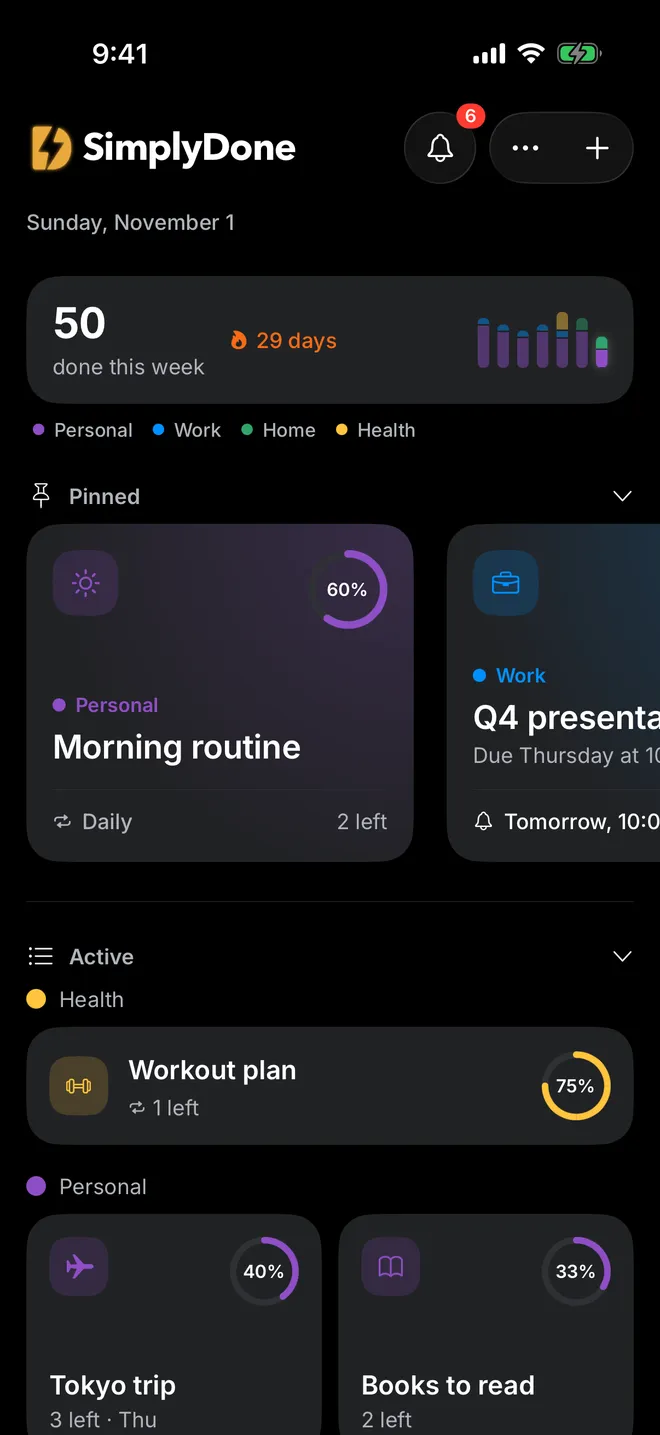
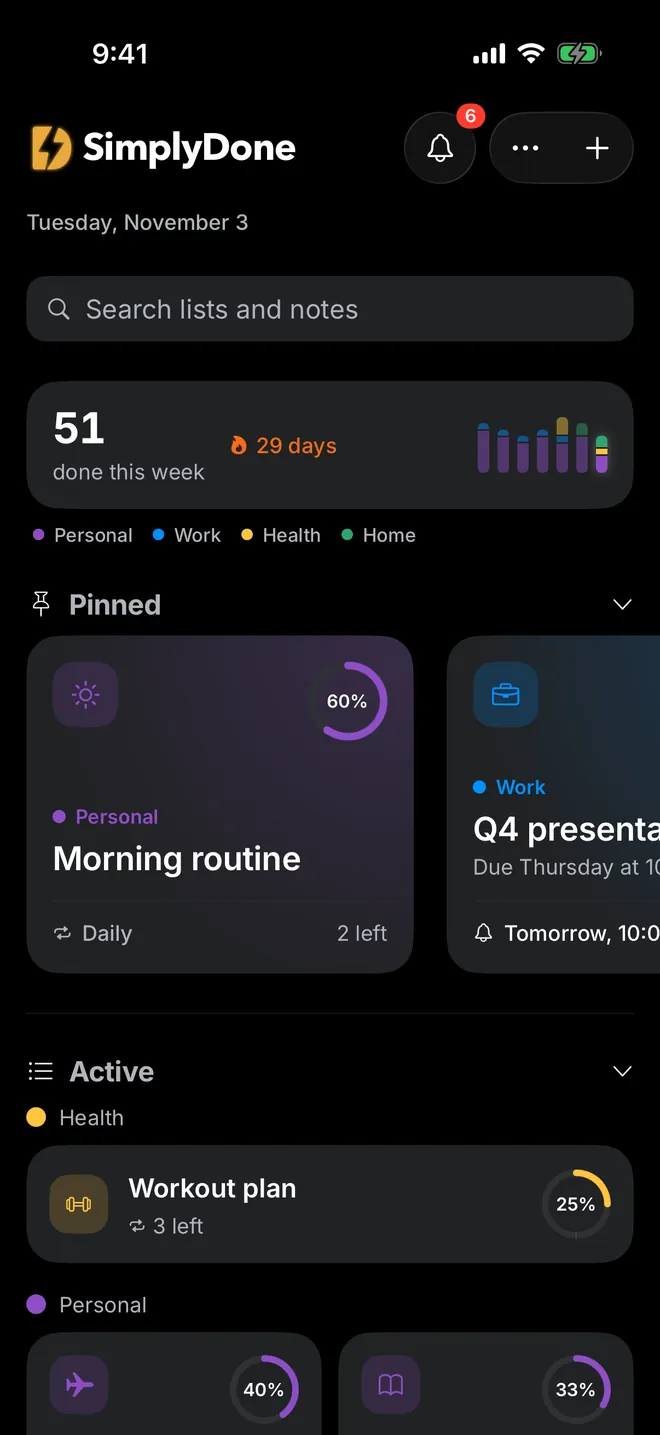
chore: Site matches 2.1.0, with notes, steps and search
- Gallery shows the 9 App Store screens from 2.1, all dark: lists, a note, a list, steps, History, search, Reminders, Edit List and Welcome
- New notes, steps and search screenshots; main, list and welcome screenshots retaken; light progress screenshot removed
- Tagline and descriptions add notes
- Feature cards add Notes and Steps inside tasks, swap Redesigned in 2.0 out, and Groups, pins and filters becomes Groups, pins and search
- Free card adds notes and steps
- What's New adds 2.1.0 (coming soon) and the Nov 3 steps update to 2.0.0
- Privacy, Terms and Support list notes where they name your data; Privacy also names steps; Privacy and Terms effective Nov 3, 2026
- Sitemap dates updated for every page

diff --git a/index.html b/index.html
@@ -4,13 +4,13 @@
     <meta charset="utf-8" />
     <meta name="viewport" content="width=device-width, initial-scale=1" />
     <title>SimplyDone - ToDo &amp; Tasks · Simple To-Do List App for iPhone</title>
-    <meta name="description" content="A simple to-do list app for iPhone and iPad. Lists, tasks, reminders and routines, kept simple. Free, with no account. Your lists stay on your iPhone." />
+    <meta name="description" content="A simple to-do list app for iPhone and iPad. Lists, tasks, notes, reminders and routines, kept simple. Free, with no account. Your lists stay on your iPhone." />
     <link rel="canonical" href="https://simplydevlab.github.io/simplydone-site/" />
     <meta name="apple-itunes-app" content="app-id=6815755294" />
     <meta property="og:type" content="website" />
     <meta property="og:site_name" content="SimplyDone" />
     <meta property="og:title" content="SimplyDone - ToDo &amp; Tasks" />
-    <meta property="og:description" content="Lists, tasks, reminders and routines, kept simple. Free, with no account. Your lists stay on your iPhone." />
+    <meta property="og:description" content="Lists, tasks, notes, reminders and routines, kept simple. Free, with no account. Your lists stay on your iPhone." />
     <meta property="og:url" content="https://simplydevlab.github.io/simplydone-site/" />
     <meta property="og:image" content="https://simplydevlab.github.io/simplydone-site/todo/images/icon.png" />
     <meta property="og:image:alt" content="SimplyDone app icon" />
@@ -23,7 +23,7 @@
         "@context": "https://schema.org",
         "@type": "MobileApplication",
         "name": "SimplyDone - ToDo & Tasks",
-        "description": "Lists, tasks, reminders and routines, kept simple. Free, with no account. Your lists stay on your iPhone.",
+        "description": "Lists, tasks, notes, reminders and routines, kept simple. Free, with no account. Your lists stay on your iPhone.",
         "url": "https://simplydevlab.github.io/simplydone-site/",
         "image": "https://simplydevlab.github.io/simplydone-site/todo/images/icon.png",
         "operatingSystem": "iOS",
@@ -44,7 +44,7 @@
         <img class="app-icon" src="todo/images/icon.png" width="96" height="96" alt="SimplyDone app icon" />
         <div>
           <h1>SimplyDone - ToDo &amp; Tasks</h1>
-          <p class="tagline">Lists, tasks, reminders and routines, kept simple.</p>
+          <p class="tagline">Lists, tasks, notes, reminders and routines, kept simple.</p>
           <a class="store-badge" href="https://apps.apple.com/app/id6815755294">
             <img src="todo/images/app-store-black.svg" width="150" height="50" alt="Download on the App Store" />
           </a>
@@ -54,20 +54,28 @@
 
       <section class="gallery" aria-label="Screenshots">
         <figure>
-          <figcaption><strong>Your lists, at a glance.</strong> Tiles in your groups' colors, pinned up top.</figcaption>
-          <div class="phone"><img src="todo/images/main.webp" width="660" height="1435" alt="The main screen in dark mode: this week's done count and streak, pinned lists as tiles, and active lists in color groups" /></div>
+          <figcaption><strong>Your lists, at a glance.</strong> Your week, your streak, and what's pinned.</figcaption>
+          <div class="phone"><img src="todo/images/main.webp" width="660" height="1435" alt="The main screen: a search field, this week's done count and streak, pinned lists as tiles, and active lists in color groups" /></div>
+        </figure>
+        <figure>
+          <figcaption><strong>Jot it down.</strong> Plain notes, linked to the lists they're about.</figcaption>
+          <div class="phone"><img src="todo/images/notes.webp" width="660" height="1435" alt="A note planning a Tokyo trip, linked to a Tokyo trip list and a Books to read list" loading="lazy" /></div>
         </figure>
         <figure>
           <figcaption><strong>Just check it off.</strong> What's left and what's next, right at the top.</figcaption>
           <div class="phone"><img src="todo/images/check.webp" width="660" height="1435" alt="A work list with 3 of 6 tasks left, its next reminder, and done tasks folded below" loading="lazy" /></div>
         </figure>
         <figure>
+          <figcaption><strong>Break it into small steps.</strong> Steps inside any task, with notes and photos.</figcaption>
+          <div class="phone"><img src="todo/images/steps.webp" width="660" height="1435" alt="A workout list whose tasks open into steps, some ticked, one with a description" loading="lazy" /></div>
+        </figure>
+        <figure>
           <figcaption><strong>Make it a routine.</strong> Lists that repeat, with every day kept in History.</figcaption>
           <div class="phone"><img src="todo/images/routine.webp" width="660" height="1435" alt="History of a daily morning list: a calendar of the days kept, the average done, and the best run" loading="lazy" /></div>
         </figure>
         <figure>
-          <figcaption><strong>See your progress.</strong> Your week by group, and your streak.</figcaption>
-          <div class="phone"><img src="todo/images/progress.webp" width="660" height="1435" alt="The main screen in light mode, with the week's tasks done by group and a 29-day streak" loading="lazy" /></div>
+          <figcaption><strong>Find anything, fast.</strong> One search for your lists and your notes.</figcaption>
+          <div class="phone"><img src="todo/images/search.webp" width="660" height="1435" alt="Searching the main screen for week: two matching lists and two matching notes" loading="lazy" /></div>
         </figure>
         <figure>
           <figcaption><strong>Never miss a thing.</strong> What's up next, and every reminder by day.</figcaption>
@@ -78,8 +86,8 @@
           <div class="phone"><img src="todo/images/icons.webp" width="660" height="1435" alt="Editing a trip list: its icon, group and repeat" loading="lazy" /></div>
         </figure>
         <figure>
-          <figcaption><strong>No sign-up. Just start.</strong> Your lists never leave your iPhone.</figcaption>
-          <div class="phone"><img src="todo/images/start.webp" width="660" height="1435" alt="The welcome screen, with a New list button and ready-made lists to start from" loading="lazy" /></div>
+          <figcaption><strong>No sign-up. Just start.</strong> Your lists and notes never leave your iPhone.</figcaption>
+          <div class="phone"><img src="todo/images/start.webp" width="660" height="1435" alt="The welcome screen, with a New list button, ready-made lists to start from, and Write a note" loading="lazy" /></div>
         </figure>
       </section>
 
@@ -87,11 +95,15 @@
       <div class="features">
         <div class="card">
           <h3>Your lists stay yours</h3>
-          <p>Your lists, tasks and photos are saved only on your device. No account to create, and nothing you write is shared with advertisers.</p>
+          <p>Your lists, tasks, notes and photos are saved only on your device. No account to create, and nothing you write is shared with advertisers.</p>
         </div>
         <div class="card">
-          <h3>Redesigned in 2.0</h3>
-          <p>Your lists as tiles in their group's color, each with its own icon from a set of 40. What's left and what's next, right at the top of every list.</p>
+          <h3>Notes, new in 2.1</h3>
+          <p>Write a note, just a title and plain text, and link it to as many lists as you like. Each link shows what's left, and each list shows the notes that link it.</p>
+        </div>
+        <div class="card">
+          <h3>Steps inside tasks</h3>
+          <p>Break a task into a short checklist. Each step has its own tick, and a description or photos if you like.</p>
         </div>
         <div class="card">
           <h3>Repeating lists</h3>
@@ -114,8 +126,8 @@
           <p>Add a description or a photo to any task, so the details are right where you need them.</p>
         </div>
         <div class="card">
-          <h3>Groups, pins and filters</h3>
-          <p>Color-code lists into groups, pin the ones you use most, and filter to see just what matters.</p>
+          <h3>Groups, pins and search</h3>
+          <p>Lists as tiles in their group's color, each with its own icon from a set of 40. Pin the ones you use most, and search your lists and notes from the main screen.</p>
         </div>
         <div class="card">
           <h3>Light and dark</h3>
@@ -131,7 +143,7 @@
       <div class="features">
         <div class="card">
           <p class="label">Free</p>
-          <p>Everything: unlimited lists and tasks, repeating lists, progress and streak, reminders, photos, groups and sharing. A small banner ad keeps it free.</p>
+          <p>Everything: unlimited lists, tasks and notes, steps, repeating lists, progress and streak, reminders, photos, groups and sharing. A small banner ad keeps it free.</p>
         </div>
         <div class="card">
           <p class="label">SimplyDone Pro</p>

diff --git a/todo/privacy/index.html b/todo/privacy/index.html
@@ -20,14 +20,14 @@
   <body>
     <main>
       <h1>Privacy Policy</h1>
-      <p class="subtitle">SimplyDone - ToDo &amp; Tasks · Effective October 25, 2026</p>
+      <p class="subtitle">SimplyDone - ToDo &amp; Tasks · Effective November 3, 2026</p>
 
       <div class="card">
-        <p><strong>In short:</strong> Your lists, tasks, reminders and photos stay on your device, unless you choose to share a list. There's no account and no analytics of the app's own. Since version 1.3.0, SimplyDone is free and shows a small banner ad from Google AdMob. Google collects some device and usage data to show and measure those ads, as described below, but never your lists, tasks or photos. SimplyDone Pro removes the ads.</p>
+        <p><strong>In short:</strong> Your lists, tasks, notes, reminders and photos stay on your device, unless you choose to share a list. There's no account and no analytics of the app's own. Since version 1.3.0, SimplyDone is free and shows a small banner ad from Google AdMob. Google collects some device and usage data to show and measure those ads, as described below, but never your lists, tasks or photos. SimplyDone Pro removes the ads.</p>
       </div>
 
       <h2>What stays on your device</h2>
-      <p>Everything you create in SimplyDone is saved only on your device: lists, tasks and their descriptions, groups, reminders, photos you attach, the history of repeating lists, and your settings. None of it is sent to the developer, to Google or to any advertiser, and the developer has no way to see it. Nothing goes to anyone else unless you share a list yourself.</p>
+      <p>Everything you create in SimplyDone is saved only on your device: lists, tasks and their steps and descriptions, notes, groups, reminders, photos you attach, the history of repeating lists, and your settings. None of it is sent to the developer, to Google or to any advertiser, and the developer has no way to see it. Nothing goes to anyone else unless you share a list yourself.</p>
 
       <h2>Sharing a list</h2>
       <p>When you share a list, SimplyDone makes a file containing the list's name and description, and each task's name, description and whether it's done. Its reminders, photos, group and history are left out. The file goes only where you send it from the iOS share sheet: with AirDrop it goes straight to the other device, and with another app, such as Messages or Mail, it's handled by that app under its own privacy terms. The developer never receives it. A list someone shares with you is added only if you choose to add it.</p>
@@ -53,7 +53,7 @@
       <ul>
         <li>No account or sign-in</li>
         <li>No analytics of the app's own</li>
-        <li>Your lists, tasks and photos are never shared with Google or advertisers</li>
+        <li>Your lists, tasks, notes and photos are never shared with Google or advertisers</li>
         <li>No selling of your data</li>
       </ul>
 
@@ -67,7 +67,7 @@
       <p>SimplyDone Pro removes the ads. It's bought through Apple's App Store. Apple handles the payment, and the developer never receives your payment details. The app checks with the App Store whether you own Pro. Apple's handling of purchases is covered by <a href="https://www.apple.com/legal/privacy/">Apple's Privacy Policy</a>.</p>
 
       <h2>App updates</h2>
-      <p>SimplyDone may download small updates to the app from Expo, the service it's built with. These requests contain only technical details needed to deliver the right update, such as the app version and platform. They contain none of your lists, tasks or photos.</p>
+      <p>SimplyDone may download small updates to the app from Expo, the service it's built with. These requests contain only technical details needed to deliver the right update, such as the app version and platform. They contain none of your lists, tasks, notes or photos.</p>
       <p>To let you know when a newer version is on the App Store, SimplyDone asks Apple's public App Store lookup for the app's latest version. The request contains only the app's identifier, nothing about you or your lists.</p>
 
       <h2>Reporting a bug</h2>
@@ -80,7 +80,7 @@
       <p>If you back up your device to iCloud or to a computer, SimplyDone's data is included in that backup, as it is for most apps. Those backups are handled by Apple and controlled by you.</p>
 
       <h2>Deleting your data</h2>
-      <p>You can delete lists and tasks in the app at any time. To delete everything at once, go to <strong>Settings → Delete All Data</strong>: all your lists, tasks, groups, photos and history are removed from the device, and your Pro purchase and settings stay. Deleting SimplyDone from your device also deletes all of its data. Data Google collected for ads is held by Google; see <a href="https://policies.google.com/privacy">Google's Privacy Policy</a> for how to manage or delete it.</p>
+      <p>You can delete lists and tasks in the app at any time. To delete everything at once, go to <strong>Settings → Delete All Data</strong>: all your lists, tasks, notes, groups, photos and history are removed from the device, and your Pro purchase and settings stay. Deleting SimplyDone from your device also deletes all of its data. Data Google collected for ads is held by Google; see <a href="https://policies.google.com/privacy">Google's Privacy Policy</a> for how to manage or delete it.</p>
 
       <h2>Children</h2>
       <p>SimplyDone is a general-audience app and isn't directed at children. The developer doesn't collect personal information from anyone, including children. Ads in the app are served by Google under its own policies.</p>

diff --git a/todo/terms/index.html b/todo/terms/index.html
@@ -20,7 +20,7 @@
   <body>
     <main>
       <h1>Terms of Use</h1>
-      <p class="subtitle">SimplyDone - ToDo &amp; Tasks · Effective October 25, 2026</p>
+      <p class="subtitle">SimplyDone - ToDo &amp; Tasks · Effective November 3, 2026</p>
 
       <div class="card">
         <p><strong>In short:</strong> SimplyDone is yours to use for your own lists and tasks. What you create belongs to you and stays on your device, so keeping a backup is up to you. The app is free and shows ads; Pro is a one-time purchase, handled by Apple, that removes them.</p>
@@ -33,7 +33,7 @@
       <p>You may use SimplyDone on any Apple device you own or control, as the App Store allows. Please don't copy, modify, resell or reverse engineer the app, or use it for anything unlawful.</p>
 
       <h2>Your content</h2>
-      <p>The lists, tasks, reminders, photos and history you create are yours. They're stored only on your device, and the developer can't see, recover or restore them. Deleting the app, deleting your data in Settings, or losing your device can remove them for good. Backing up your device to iCloud or a computer is the way to keep a copy.</p>
+      <p>The lists, tasks, notes, reminders, photos and history you create are yours. They're stored only on your device, and the developer can't see, recover or restore them. Deleting the app, deleting your data in Settings, or losing your device can remove them for good. Backing up your device to iCloud or a computer is the way to keep a copy.</p>
 
       <h2>Sharing lists</h2>
       <p>When you share a list, you choose who receives it and you're responsible for what it contains. A shared list is a copy: once sent, it's on the other person's device and out of your control.</p>

diff --git a/todo/changelog/index.html b/todo/changelog/index.html
@@ -22,7 +22,29 @@
       <h1>What's New</h1>
       <p class="subtitle">SimplyDone - ToDo &amp; Tasks · Every version, newest first</p>
 
+      <h2>2.1.0</h2>
+      <p class="label">Release · Coming soon</p>
+      <div class="card">
+        <p><strong>New</strong></p>
+        <ul>
+          <li>Write notes: a title and plain text, linked to as many of your lists as you like. Each link shows what's left and opens the list, and a list's page shows the notes that link it.</li>
+          <li>Search your lists and notes from the main screen.</li>
+        </ul>
+        <p><strong>Improved</strong></p>
+        <ul>
+          <li>The main screen stays short: each group shows up to 5 lists and Notes the 4 latest, with See All for the rest. A group's See All shows its lists as rows or cards, with a search of its own.</li>
+        </ul>
+      </div>
+
       <h2>2.0.0</h2>
+      <p class="label">Update · Nov 3, 2026</p>
+      <div class="card">
+        <p><strong>New</strong></p>
+        <ul>
+          <li>Break a task into steps: a short checklist under it, each step with its own tick and, if you like, a description and photos. Tap “1 of 3 steps” to show them; ticking the last one ticks the task.</li>
+        </ul>
+      </div>
+
       <p class="label">Release · Nov 2, 2026</p>
       <div class="card">
         <p><strong>New</strong></p>

diff --git a/todo/support/index.html b/todo/support/index.html
@@ -65,7 +65,7 @@
       <p>Go to <strong>Settings → Recently Deleted</strong> in SimplyDone. Deleted lists stay there for 30 days, and you can restore them.</p>
 
       <h3>How do I delete all my data?</h3>
-      <p>Go to <strong>Settings → Delete All Data</strong>. It removes all your lists, tasks, groups and photos from the device, including Archived and Recently Deleted. Your Pro purchase and settings stay. This can't be undone, since your data isn't stored anywhere else.</p>
+      <p>Go to <strong>Settings → Delete All Data</strong>. It removes all your lists, tasks, notes, groups and photos from the device, including Archived and Recently Deleted. Your Pro purchase and settings stay. This can't be undone, since your data isn't stored anywhere else.</p>
 
       <h3>How do I report a bug?</h3>
       <p>Go to <strong>Settings → Report a Bug</strong>. It opens an email with the app version and device details filled in, so you only need to describe what happened. You can also email <a href="mailto:simplydone.support@gmail.com">simplydone.support@gmail.com</a> directly.</p>
